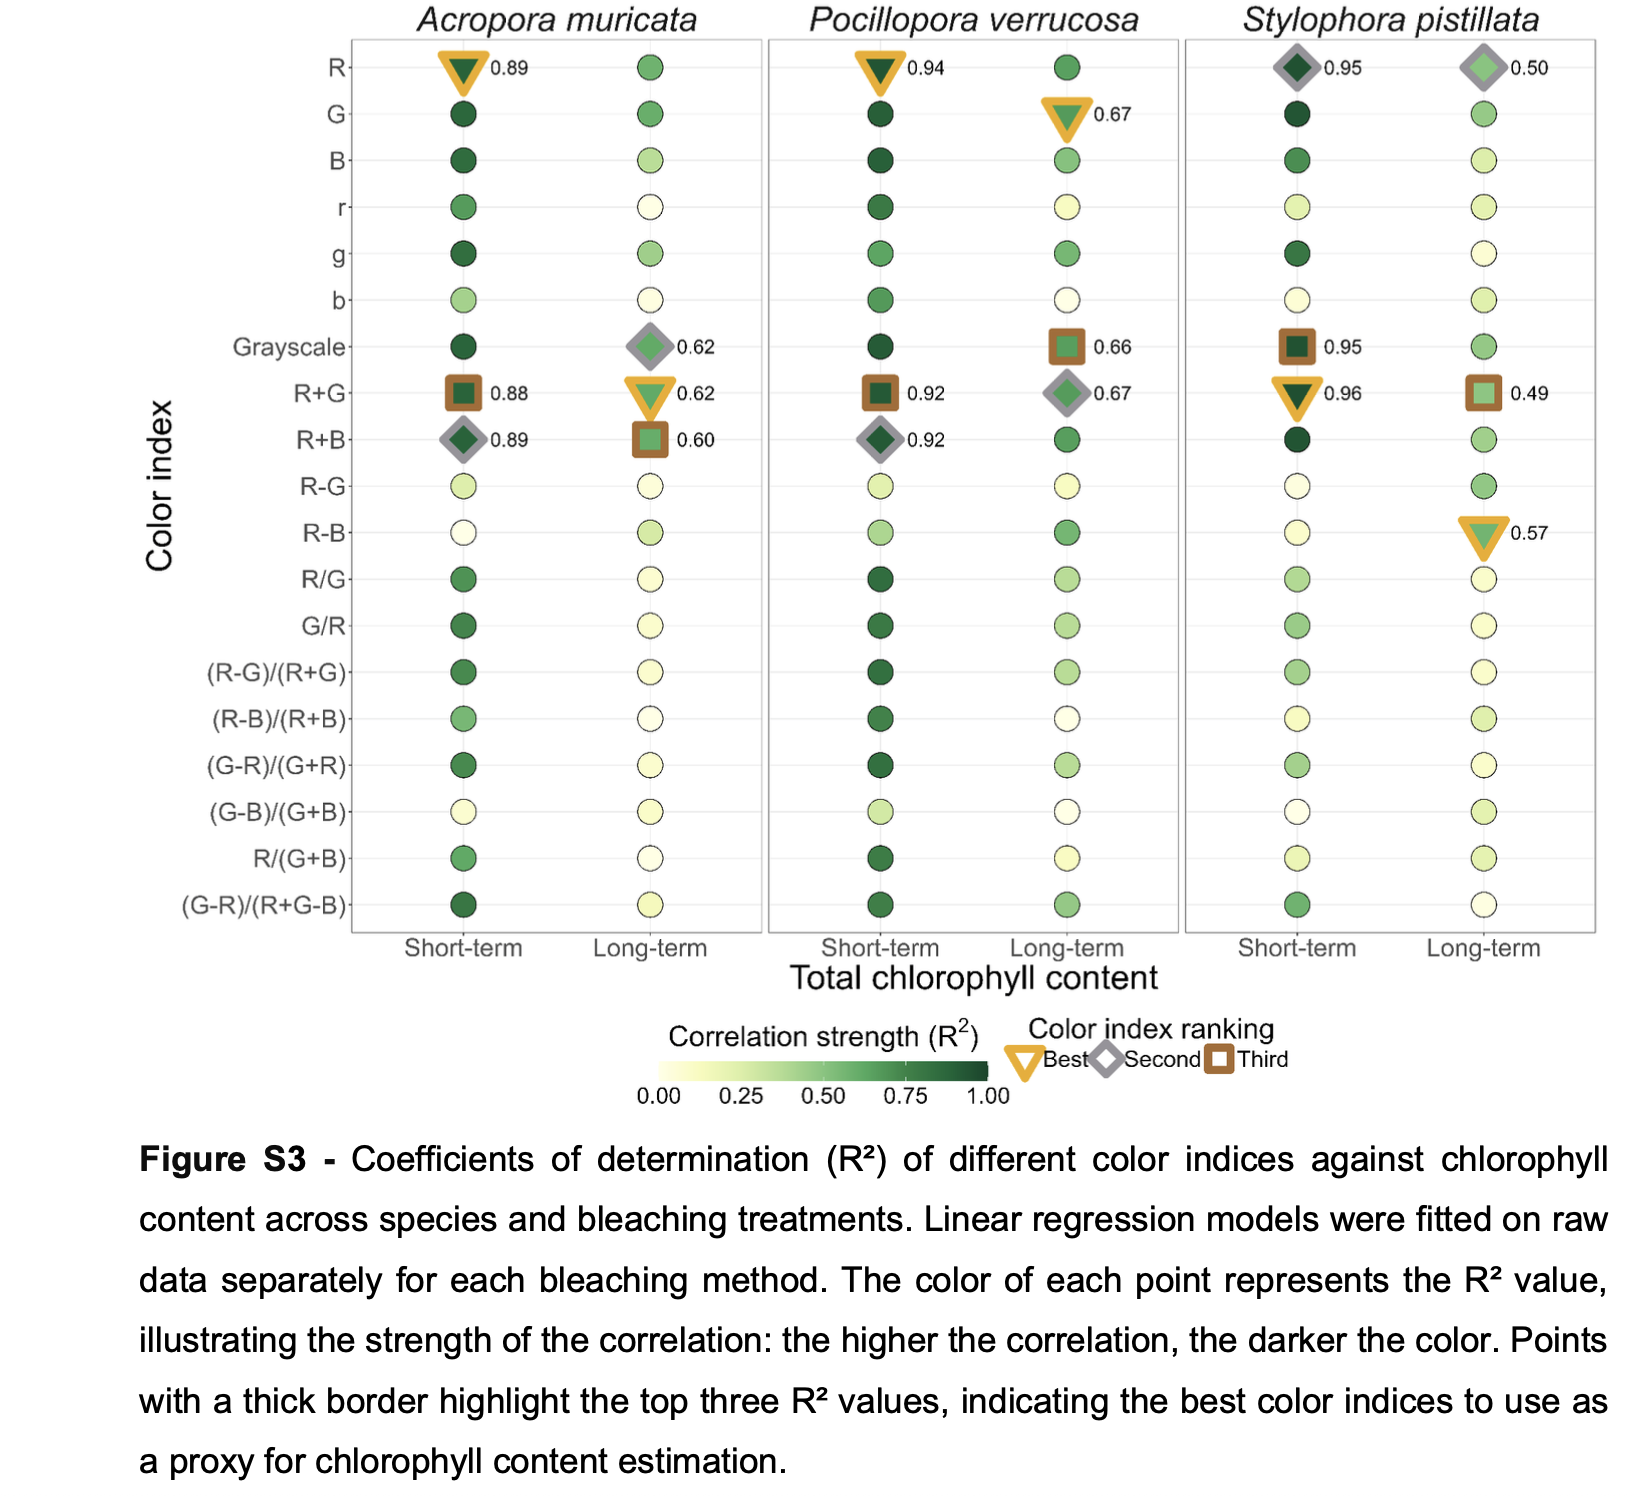
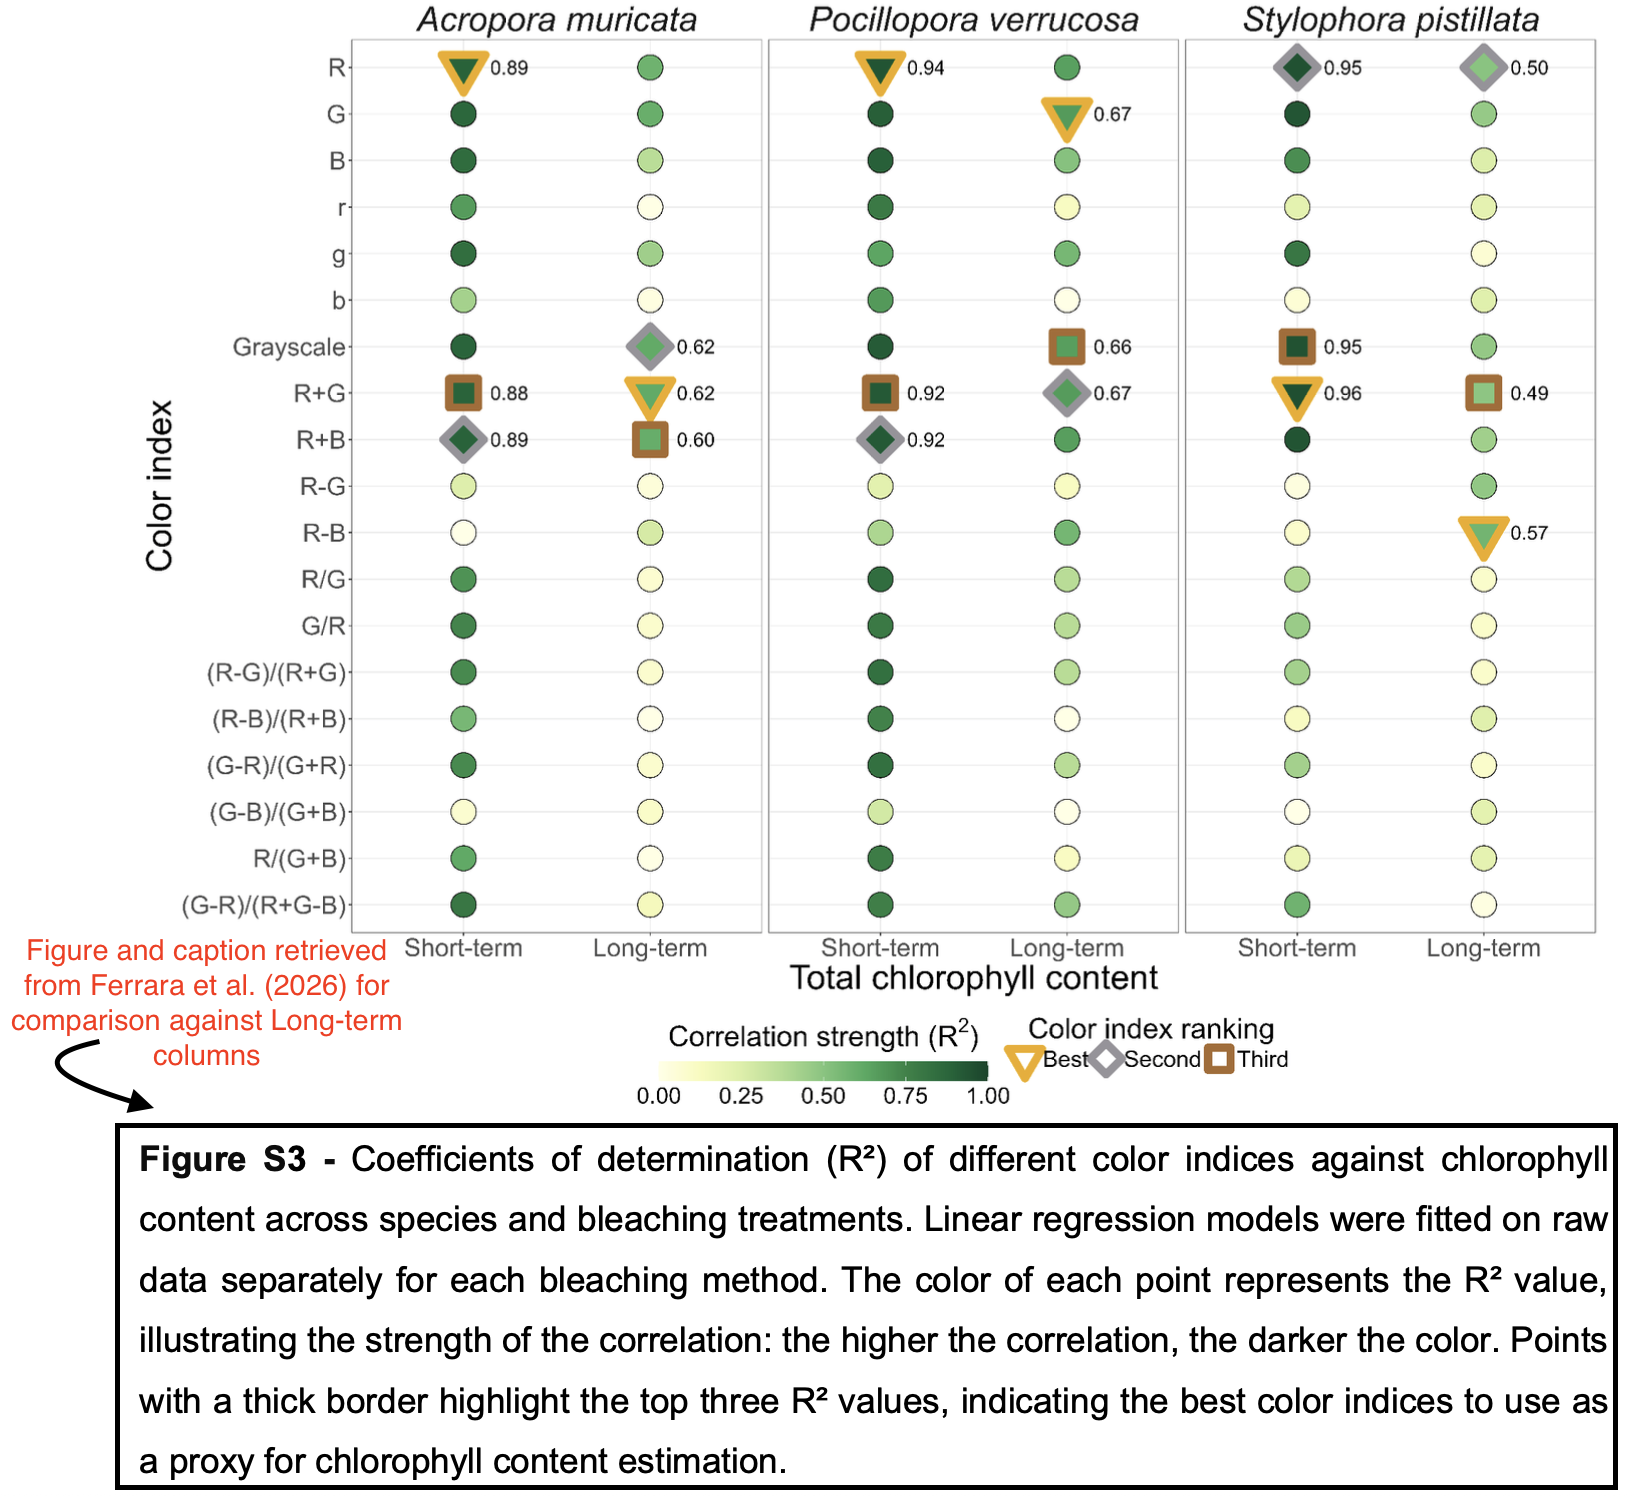
Updating Chl-a RGB progress report with full dataset

Changed region(s): [[0.0, 0.615, 0.9988, 0.7687], [0.0624, 0.984, 0.9988, 1.0]]

diff --git a/_posts/2026-10-12-BA_RGB_Chl_a_Index_Progress_Report.md b/_posts/2026-10-12-BA_RGB_Chl_a_Index_Progress_Report.md
@@ -1,21 +1,21 @@
 ---
 layout: post
 title: "RGB Chl-a Index Progress Report"
-date: '2026-09-01'
+date: '2026-10-12'
 categories: Lab Notebook
 tags: Coral Bleaching, Chl-a Index, RGB, Image Processing, Progress Report
 ---
 
 * Boaz Abramson - University of Haifa - Mass Lab & Color Lab
 * **Supervisors:** Prof. Tali Mass & Prof. Derya Akkaynak
-* **Date:** 1/9/26
+* **Date:** 12/10/26
 
 ### Current Status
-Out of 89 experimental coral nubs, 25 have been fully processed for Chl-a density (µg/cm²) and RGB values (8 *Stylophora* nubs, 10 *Pocillopora*, and 7 *Acropora*). 10 nubs have been imaged and frozen, but have not been processed for Chl-a. Over the past three weeks, the tank temperature has been elevated from 24°C to 30°C. Tank temperature will continue to rise over the next month, and as nubs show signs of bleaching, they will be imaged, frozen, and processed to complete the RGB/Chl-a index reference data. Currently, the *Acropora* data lacks medium bleached & severely bleached data points, the *Pocillopora* data lacks medium bleached data points, and the *Stylophora* lacks severely bleached data points (Fig. 1).
+All 87 coral nubs have been fully processed for Chl-a density (µg/cm²) and RGB values (28 *Stylophora* nubs, 27 *Pocillopora*, and 32 *Acropora*). Over three months, the tank temperature was elevated from 24°C to 32°C. As coral nubs showed signs of bleaching, they were imaged, frozen, and processed to complete the RGB/Chl-a index reference data. The first component of the MSc research project, the lab controlled RGB/Chl-a index data collection, is complete. 
 
 <br>
 
-<img src="../images/RGB_Chl_a_Index_Progress_Report/F1.png" alt="Figure 1: 16-bit RGB intensity distributions for the Acropora, Pocillopora, and Stylophora nubs." width="100%">
+<img src="../images/RGB_Chl_a_Index_Progress_Report/Updated_F1.png" alt="Figure 1: 16-bit RGB intensity distributions for the Acropora, Pocillopora, and Stylophora nubs." width="100%">
 
 *Figure 1: 16-bit RGB intensity distributions for the Acropora, Pocillopora, and Stylophora nubs. Higher pixel intensities indicate a brighter color (more bleached).*
 
@@ -23,20 +23,19 @@ Out of 89 experimental coral nubs, 25 have been fully processed for Chl-a densit
 
 ### Preliminary Results
 * Following RGB and Chl-a extraction for each coral nub, the values were tested for correlation strength across 22 index options (19 based on RGB, 3 from RGB converted to CIELAB) and visualized using a modified R script from Ferrara et al., 2026 (Fig. 2).
-* Notably, the R² values presented here (Fig. 2) for *Pocillopora* (R² = 0.91, p < 0.001) and *Stylophora* (R² = 0.89, p < 0.001) are stronger than the values obtained for the long-term heat stress bleaching experiment conducted by Ferrara et al., 2026, which follows a similar experimental protocol but used non-linear .png images for RGB extraction (Fig. S7).
+* Notably, all R² values presented here (Fig. 2) for *Acropora* (R² = 0.95, p < 0.001), *Pocillopora* (R² = 0.94, p < 0.001), and *Stylophora* (R² = 0.88, p < 0.001)  are stronger than the values obtained for the long-term heat stress bleaching experiment conducted by Ferrara et al., 2026, which follows a similar experimental protocol but used non-linear .png images for RGB extraction (Fig. S7).
 
 <br>
 
-<img src="../images/RGB_Chl_a_Index_Progress_Report/F2.png" alt="Figure 2: Correlation strength between chlorophyll-a density and 22 color indices." width="100%">
+<img src="../images/RGB_Chl_a_Index_Progress_Report/Updated_F2.png" alt="Figure 2: Correlation strength between chlorophyll-a density and 22 color indices." width="100%">
 
 *Figure 2: Correlation strength (R²) between chlorophyll-a density and 22 color indices (19 RGB-derived & 3 converted to CIELAB). Thick borders indicate the top three indices. Darker green indicates a stronger correlation. Further details regarding specific indices can be found in Supplementary Table 1. Visualization performed with modified R code from Ferrara et al., 2026.*
 
 ---
 
 ### Discussion/Questions
-* The preliminary results presented here are promising and in some cases outcompete similar published experiments. Collecting the data from the remaining coral nubs will likely increase the strength of the correlations, especially with the *Acropora*.
-* While Chl-a here was calculated using the wavelengths 630, 663, and 750 nm, some studies also utilize the wavelength 647 to remove overlap between Chl-a and Chl-C₂. The 647 wavelength was unfortunately not collected for all samples. If necessary, the remaining coral tissue in the freezer can be used to re-run the samples that lack the 647 wavelength data. Is this a worthwhile endeavor, or is the simple version of the Jeffrey & Humphrey 1975 equation with the 630, 663, and 750 nm wavelengths sufficient?
-* When the coral nubs extend their polyps, the light shining on them leads to a "glint" on the rounded edges of the polyps (Fig. S6). Currently, these "glints" have been included in the averaged RGB data across the collected samples. Is it worthwhile to remove these "glints" from the index data, and if so, is there an efficient way to remove these glints?
+* The preliminary results presented here are promising and outcompete similar published experiments. This improvement can be attributed to the RAW image processing steps taken to maintain image linearity and color consistency.
+* When the coral nubs extend their polyps, the light shining on them leads to a "glint" on the rounded edges of the polyps (Fig. S6). Currently, these "glints" have been included in the averaged RGB data across the collected samples. Increased pricision with image segmentation may further improve the results.
 
 ---
 
